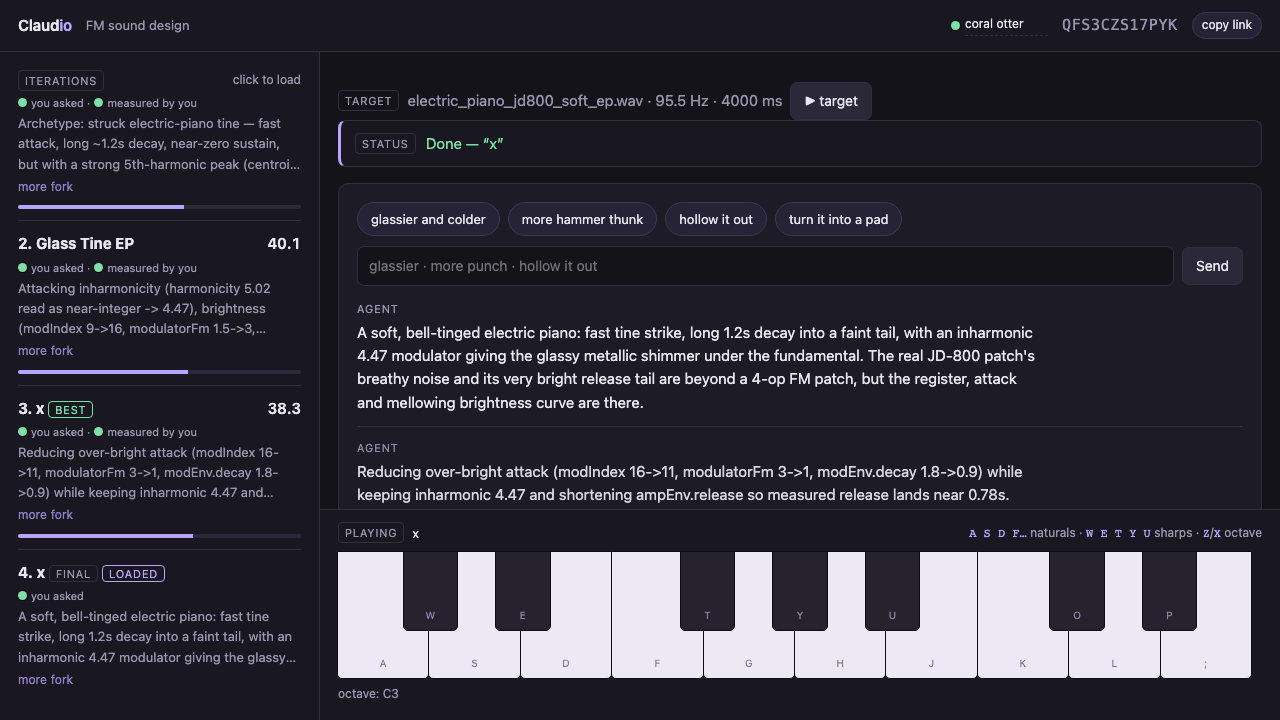
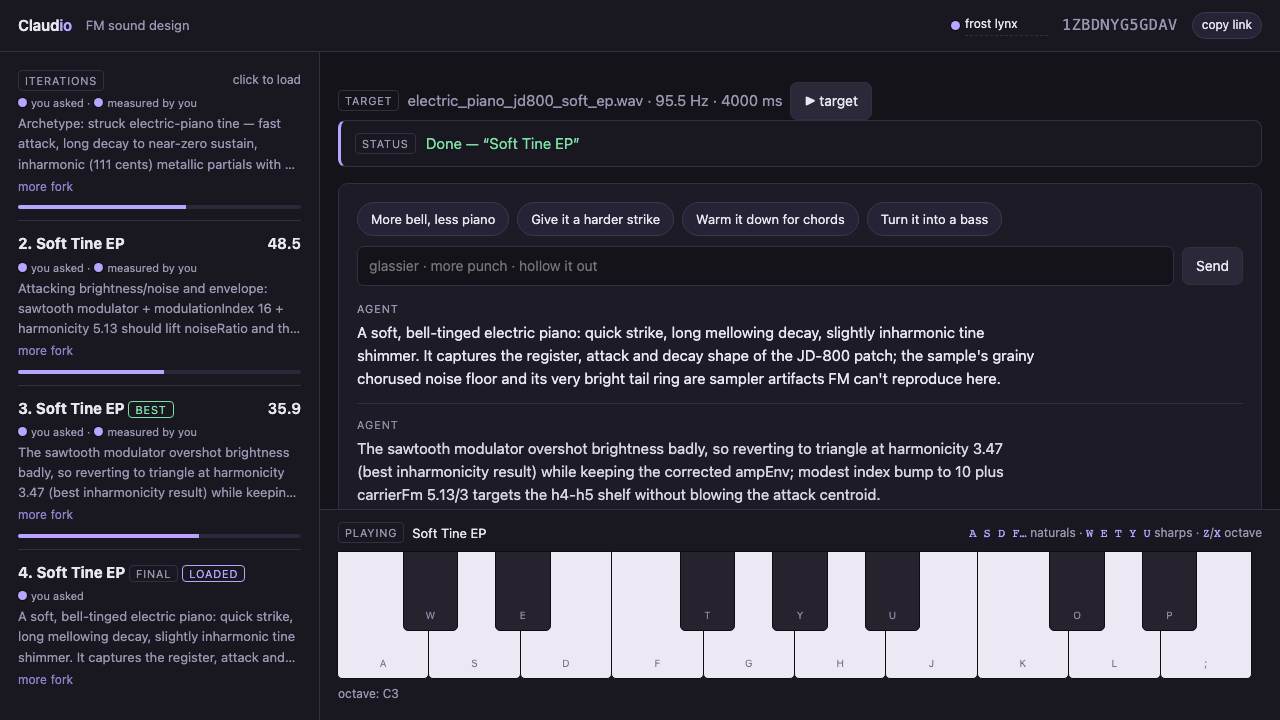
1b: Opus 5.5 design clean after the planForAction fix; spend rule under $50
Claude-Session: https://claude.ai/code/session_01XRsr2RfCeVzUtEVFe5smiQ

diff --git a/docs/plans/claudio-band.md b/docs/plans/claudio-band.md
@@ -525,7 +525,7 @@ Key, progression and bar count are changed with visible controls, not keys. Star
    - A poller asserts the transport never stops and `missedSteps` stays 0.
    - One **in-page `Tone.Offline` onset test** renders a 1-bar part through the real engine and checks energy at the expected samples.
    - Covers S1–S6, S3s, S10a, S11a and H.
-4. **Real-model smoke:** `npm run smoke:real`. It costs money, so it runs only with Will's go-ahead at slices 1b and 6.
+4. **Real-model smoke:** `npm run smoke:real`. It costs money. Runs under $50 are pre-approved (Will, 2026-09-22): run, then report the cost. At $50 or more, ask first.
    - Covers S2, S4 and S5 with real Claude.
    - Reports design wall time and no-tool strikes, band turn p50 latency, whether each part note actually changed the part, and screenshots.
    - The bar: band median ≤ 10s, design p50 recorded (this sets the headline's cutoff), and 3 of 3 headline runs.
@@ -628,3 +628,10 @@ Audited against the plan, with adversarial review; none adopted for wave 1.
 - 2026-09-22: **Re-verification after the key-order fix (Will's go-ahead): not fixed.** Replayed calls now keep model order, but placeholder fields persist. Opus 5: 41.3 → 40.1 → 38.3; iteration 3 had `name "x"` and `harmonicity 0`; it finalized `"x"` with `harmonicity 0` and `modulationIndex 0`. Opus 5.5: 52.6 → 72.8 (`"x"`, 0, 0, `"placeholder"`) → 44.5 (rationale `"x"`); it finalized `"x"`. The key-order bug was real but not sufficient. The pre-fix runs are kept as `*-before-fix.json`. Next: a controlled replay experiment (see the session report).
 - 2026-09-22: **Replay experiment (Will's go-ahead, $0.34).** The failing Opus 5.5 turn (post-fix session `NWR9AGRW588G`, message 3) was resent 5× under each condition: A, the port's request; B, without rule 10; C, rationale first and name last. **0/15 had placeholders**, including A. The replay passed the conversation as JSON text, while the live loop received it from `planForAction` as an object, and **Convex also sorts keys in query return values**. So the live loop was still sending alphabetized history. Fix: `planForAction` returns `messagesJson` (a test fails without the fix). All three crossings (storage, query → action, action → mutation) now carry text. Rule 10 and field order are cleared as causes. Data: `docs/spikes/1b-replay-claude-opus-5-5.json`. The end-to-end re-verification is pending Will's go-ahead.
 - 2026-09-22: **Landing moves from the loop line to the bar line for part changes (Will: "sometimes it takes a while for the variation to land and you wait a while. that's not fun").** At 96 bpm, a 4-bar loop meant waiting up to 10s; now it's at most one bar. Harmony changes (tempo, key, progression, bars) still land at the loop line, because a bar-count change moves `g0`. Updated: the decisions table, the headline, the sketch, the key map, §3 and S4/S5/S6/S10a. **Frozen-test changes (Will's instruction is the OK):** in `sequencer.test.ts`, "…in one loop all promote on the same step" became "…within one bar all promote together on the next bar line"; "a staged part plays nothing until it lands" was re-staged so the old part has a note before the bar line; "the countdown uses the old loop length" now expects the part at the bar line (16) and the harmony at the loop line (32). In `spike.spec.ts`, the landing test is renamed to "bar line", and S3s asserts `g % 16`. New tests: bar landing in a 4-bar loop (unit and E2E), and in-phase landing mid-loop.
+- 2026-09-22: **Slice 1b design question resolved: Opus 5.5 stays the design model; no plan change.** End-to-end runs after the `planForAction` fix, same WAV:
+  - **Opus 5:** 40.8 → 48.5 → 35.9, finalizes "Soft Tine EP", 33.2s.
+  - **Opus 5.5:** 45.5 → 36.2 → 35.6, improving on every iteration, finalizes the best ("Glass Tine Keys"), 34.3s.
+  - **Placeholders:** none in either run.
+  - **Design wall time:** p50 ≈ 34s from the clean runs (n=2). The headline cutoff is set at slice 6 from the smoke runs; ~60s is a reasonable starting point.
+  - **Still open for 1b:** Will's listen of Sonnet's parts (`s1`–`s6` on `?spike=1`).
+- 2026-09-22: **Spend rule (Will):** API spend under $50 no longer needs a go-ahead. Run it, then report the actual cost. Testing story layer 4 is updated.
